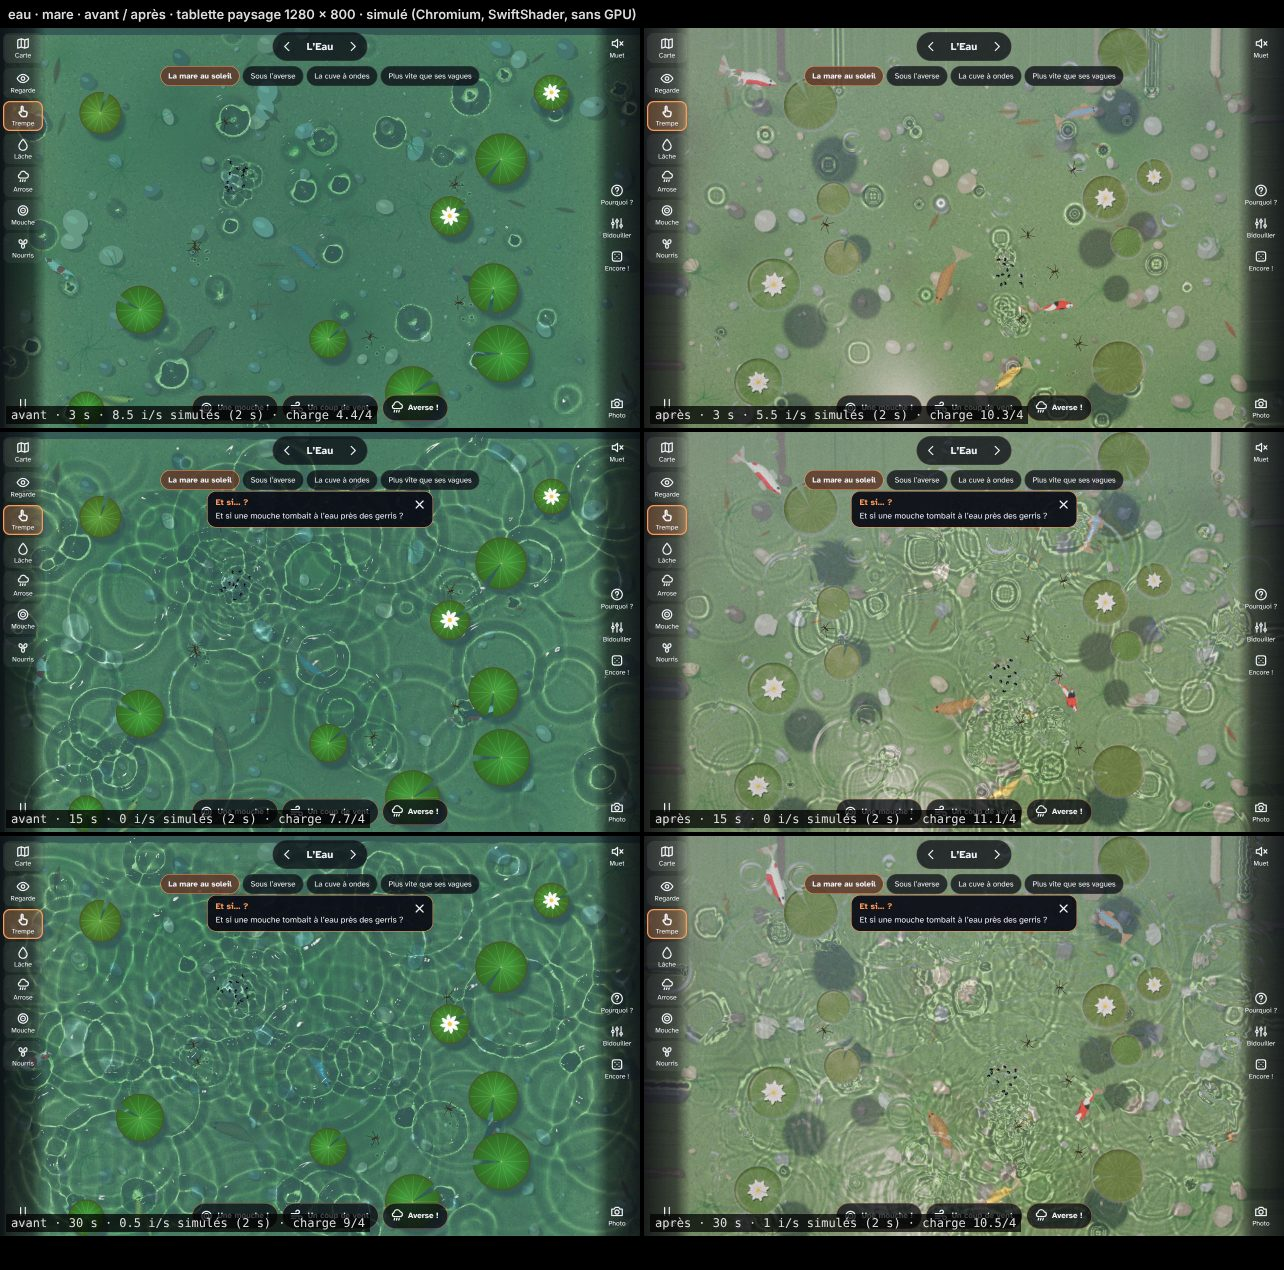
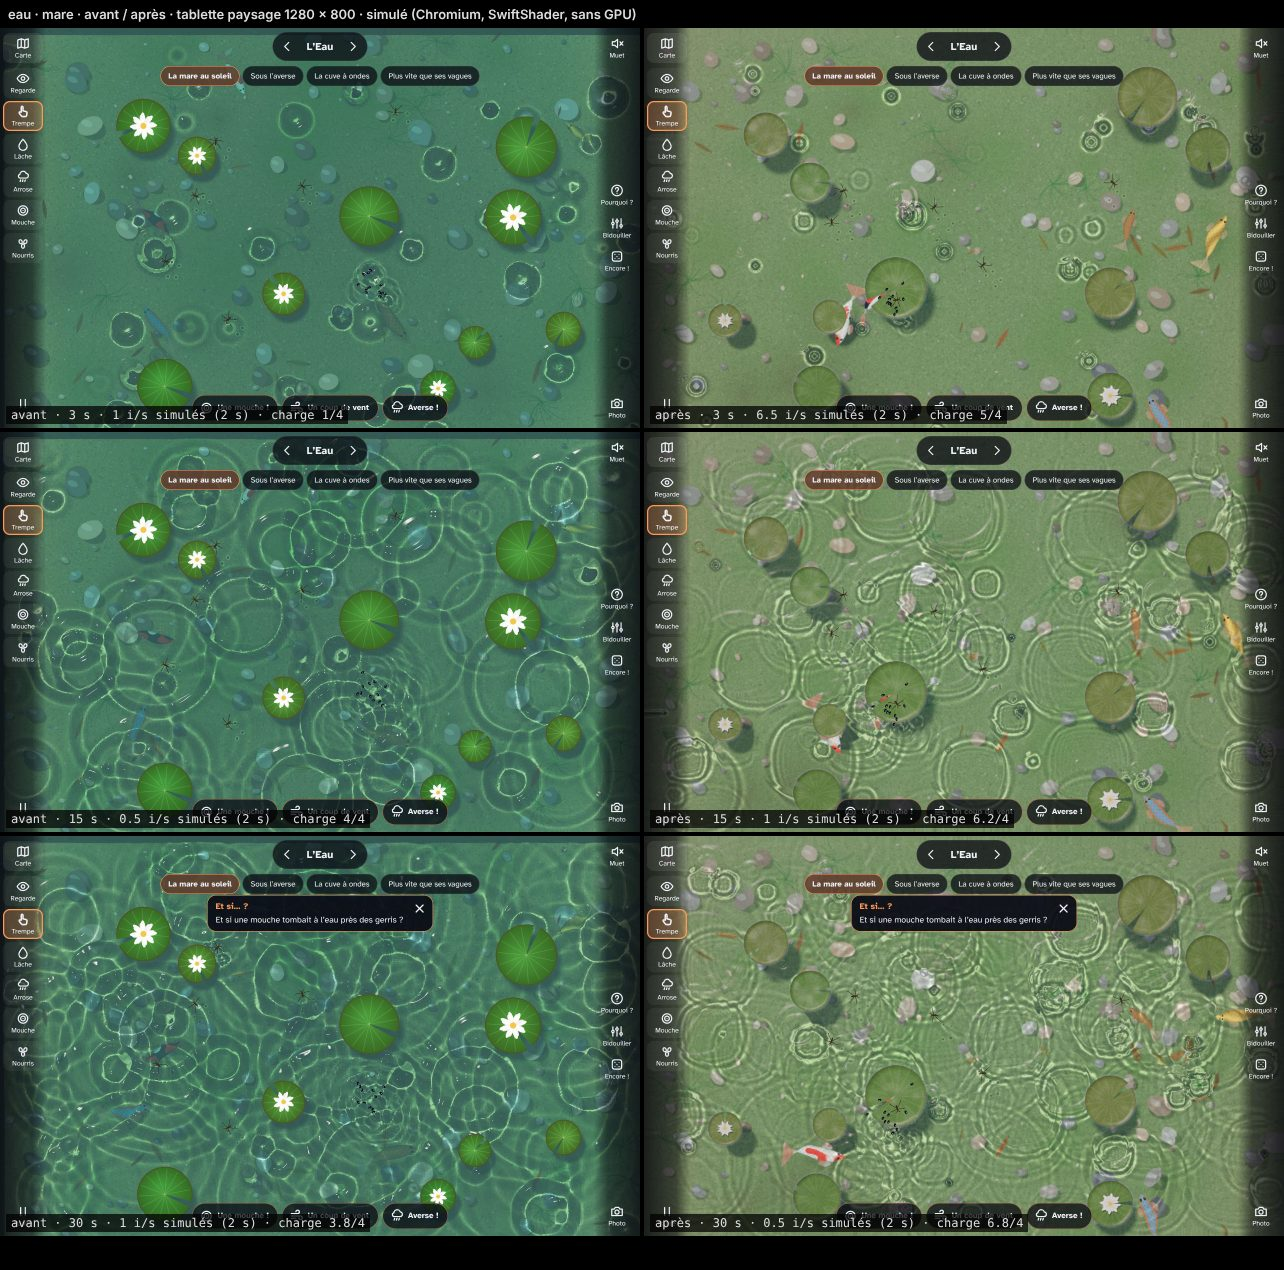
Rendu B · L'Eau : œil à la verticale, sillage en eau peu profonde nommé (relecture de Kurt)
La mare est une carte vue de dessus : l'œil est désormais à la verticale, très haut (au plus 14° d'écart dans les coins),
et non plus « debout au bord ». L'eau est transparente partout (2 % de reflet) ; le ciel ne se reflète que sur le flanc
incliné des rides, où la vue devient rasante (Fresnel exact). La cuve est de l'eau peu profonde : toutes les vagues y vont
à la même vitesse, et le V de la source qui avance est un cône de Mach dont l'angle se resserre avec la vitesse. Le texte
« À propos » le dit (sillage de Kelvin de 39° en eau profonde, à comparer). La note de l'expérience le dit aussi, et la
scène affiche à l'écran « Plus vite que ses vagues (eau peu profonde) ». Le libellé de la scène vient de la fiche jeunesse,
qui la désigne par « scenes/cuve a ondes » et l'option « doppler » : il est gardé tel quel. La simulation, les réglages et
leurs chemins sont inchangés. Planches au banc à jour (3, 15, 30 s) : la mare et la scène de la source qui avance.

Claude-Session: https://claude.ai/code/session_01MS9d5LtNxKhjVi4V5CV4hG

Changed region(s): [[0.5296, 0.0, 0.9969, 0.9827], [0.0312, 0.0307, 0.4984, 0.9827], [0.3115, 0.6756, 0.3427, 0.7063]]

diff --git a/app/js/machines/s-eau.js b/app/js/machines/s-eau.js
@@ -4,8 +4,8 @@
    absorption de l'eau. Vie : gerris qui chassent aux ondes, gyrins en radeau, koïs sous la surface,
    nénuphars, mouches tombées. Expériences de la cuve à ondes : interférences, diffraction, réfraction, Doppler.
    Rendu (rendu B, FKR) : la machine écrit de la LUMIÈRE (HDR linéaire) que la cabine commune développe (halo, AgX, grain).
-   La mare est vue par un œil debout au bord (en bas de l'écran) : transparente à ses pieds, elle devient miroir du ciel
-   au loin (Fresnel exact, n = 1,333). Le fond est éclairé par les caustiques tirées de la surface simulée, l'eau mange le
+   La mare est vue de dessus, l'œil à la verticale : transparente, elle ne renvoie le ciel que sur le flanc incliné des
+   rides, où la vue devient rasante (Fresnel exact, n = 1,333). Le fond est éclairé par les caustiques tirées de la surface simulée, l'eau mange le
    rouge selon l'épaisseur traversée (eauTransmission, Pope et Fry 1997) ; c'est le fond qui donne la teinte.
    Repli automatique sur l'ancienne Eau en 2D si WebGL2 manque. */
 (function boot() {
@@ -357,7 +357,7 @@ void main(){
     if (uBarre.w > .5) E *= mix(.12, 1., smoothstep(uBarre.z * .5, uBarre.z * 1.3, abs(p.x - uBarre.x)));
     col = pap * (uLampe * E * 1.6 * uSoleil + vec3(.006, .007, .009));
   } else {
-    // l'œil : debout au bord de la mare, en bas de l'écran (sans décor : vu d'en haut)
+    // l'œil : à la verticale de la mare, très haut (vue de dessus) ; le reflet du ciel naît sur le flanc des rides
     vec3 V = uMode < .5 ? normalize(uOeil - vec3(p, 0.)) : vec3(0., 0., 1.);
     float cv = max(dot(n, V), .02);
     float F = fresnelDielectrique(cv, 1.333);         // 2 % vu d'en haut, un miroir en vue rasante
@@ -583,15 +583,16 @@ void main(){
       { color: COUL.css(VERT.map((v) => v * 2.6)), name: 'Nymphaea alba', role: 'nénuphar blanc', desc: 'Ses feuilles flottent grâce à des canaux pleins d’air et respirent par le dessus, cireux et hydrofuge. Elles amortissent les rides qui passent dessous.' },
       { color: '#8a8070', name: 'Musca domestica', role: 'mouche tombée à l’eau', desc: 'Prisonnière de la tension superficielle, elle se débat et fait vibrer la surface : un signal que les gerris et les koïs savent lire.' },
       { color: COUL.css(SUNCOL), name: 'Caustiques', role: 'lumière réfractée', desc: 'Chaque crête concentre la lumière du soleil comme une loupe, chaque creux l’étale. Au fond, cela dessine un filet lumineux qui danse. La lumière qui descend puis remonte perd un peu de rouge : l’eau peu profonde est presque incolore, c’est le fond qui donne la teinte.' },
-      { color: COUL.css(HORIZON.map((v) => v * 0.6)), name: 'Reflet du ciel', role: 'Fresnel', desc: 'Vue d’en haut, l’eau ne renvoie que 2 % de la lumière : on voit le fond. Vue de biais, au loin, elle en renvoie de plus en plus et devient un miroir où passent le ciel et ses nuages.' },
+      { color: COUL.css(HORIZON.map((v) => v * 0.6)), name: 'Reflet du ciel', role: 'Fresnel', desc: 'Vue d’en haut, l’eau ne renvoie que 2 % de la lumière : on voit le fond. Vue de biais, elle en renvoie de plus en plus et devient un miroir : sur le flanc incliné des rides passent le ciel et ses nuages.' },
       { color: '#c8d8ff', name: 'Gouttes de pluie', role: 'bulle de Minnaert', desc: 'Le « plic » d’une goutte ne vient pas du choc, mais d’une minuscule bulle d’air piégée qui vibre, à quelques milliers de hertz. Chaque goutte projette une couronne de gouttelettes et laisse parfois de petites bulles qui flottent.' },
       { color: COUL.css(window.FKR.palette.carte('magma')(0.7)), name: 'Amplitude moyenne', role: 'couche de fausse couleur', desc: 'Couleurs : amplitude moyenne des oscillations, échelle magma (sombre : nœud, l’eau reste calme ; clair : ventre). Une grandeur invisible à l’œil, montrée seulement si on l’active.' },
     ],
     about: [
       'À la surface d’une mare, deux forces ramènent l’eau à plat : la pesanteur pour les vagues, la tension superficielle pour les petites rides. Les ondes les plus lentes avancent à 23 cm/s, pour une longueur d’onde de 1,7 cm : en dessous, ce sont des ondes capillaires, au-dessus des ondes de gravité. Ici, la simulation résout l’équation d’onde ; la profondeur règle la vitesse, comme dans une cuve à ondes.',
-      'Les caustiques sont calculées d’après la forme de la surface : la lumière du soleil la traverse, se plie selon l’indice de l’eau (1,33) et frappe le fond. Là où la surface est bombée, les rayons se resserrent et le fond s’illumine ; vue de loin, l’eau devient un miroir du ciel (Fresnel). Les pattes des gerris creusent de petites fossettes qui agissent comme des lentilles divergentes : au fond, chaque patte projette une ombre ronde cerclée de lumière.',
+      'Les caustiques sont calculées d’après la forme de la surface : la lumière du soleil la traverse, se plie selon l’indice de l’eau (1,33) et frappe le fond. Là où la surface est bombée, les rayons se resserrent et le fond s’illumine ; sur le flanc incliné des rides, vu de biais, l’eau devient un miroir du ciel (Fresnel). Les pattes des gerris creusent de petites fossettes qui agissent comme des lentilles divergentes : au fond, chaque patte projette une ombre ronde cerclée de lumière.',
       'Comment les jeunes gerris avancent-ils, alors que leurs pattes vont moins vite que les ondes les plus lentes ? Ce « paradoxe de Denny » (1993) a été résolu en 2003 par David Hu, Brian Chan et John Bush : en ramant, le gerris lance surtout de petits tourbillons sous la surface. Ses pattes portent jusqu’à quinze fois son poids grâce à des milliers de poils striés.',
       'Au début des années 1800, Thomas Young fait passer la lumière par deux fentes et observe des franges : la lumière se comporte comme une onde. La cuve à ondes rend l’expérience visible. Deux sources font naître des lignes calmes (nœuds) et des lignes agitées (ventres), des hyperboles ; une fente étroite fait s’épanouir l’onde, une plaque immergée la ralentit et la dévie, comme un prisme.',
+      'En eau profonde, le sillage d’un bateau fait toujours environ 39° (sillage de Kelvin) ; ici, l’eau est peu profonde, toutes les vagues vont à la même vitesse, et l’angle du V se resserre quand on va plus vite.',
       'Quand on tape près d’une carpe, elle fuit en quelques millisecondes en se pliant en C : c’est le « départ en C », commandé par deux neurones géants, les cellules de Mauthner. Et le « plic » de la pluie vient d’une bulle d’air qui vibre à une fréquence d’environ 3,3 divisé par son rayon (Minnaert, 1933).',
     ],
     tools: [
@@ -696,7 +697,8 @@ void main(){
     }
     mkCab();
     // décalage du fond vu à travers une eau plane, par unité de profondeur (l'œil est debout au bord, en bas de l'écran)
-    const oeil = () => { const v = view(); return [v.cx, H * 1.2, H * 0.5]; };
+    // une carte vue de dessus : l'œil est à la verticale, très haut (au plus 14° d'écart dans les coins)
+    const oeil = () => { const v = view(); return [v.cx, H * 0.5, H * 3]; };
     function decalage(x, y) {
       const E = oeil(); let vx = E[0] - x, vy = E[1] - y; const vz = E[2], l = Math.hypot(vx, vy, vz);
       vx /= l; vy /= l;
@@ -1133,7 +1135,19 @@ void main(){
       if (!mode) drawSpray(A);
       cab.fin(rdt);
       if (!bare) drawSurface();
+      if (tank && cfg.exp === 'doppler') legendeDoppler();
       drawLabel(false);
+    }
+    // à l'écran, sur la scène « Plus vite que ses vagues » : la cuve est de l'eau peu profonde (V de Mach, pas de Kelvin)
+    function legendeDoppler() {
+      const v = view(), y = ((env.view && env.view.y0) || 0) + 22;
+      ctx.save();
+      ctx.shadowColor = 'rgba(0,0,0,.85)'; ctx.shadowBlur = 6; ctx.textAlign = 'left';
+      ctx.fillStyle = 'rgba(250,248,240,.95)'; ctx.font = '500 14px "Space Grotesk", sans-serif';
+      ctx.fillText('Plus vite que ses vagues (eau peu profonde)', v.x0 + 16, y);
+      ctx.fillStyle = 'rgba(250,248,240,.8)'; ctx.font = '500 9.5px "JetBrains Mono", monospace';
+      ctx.fillText('TOUTES LES VAGUES VONT À LA MÊME VITESSE : LE V SE RESSERRE QUAND LA SOURCE ACCÉLÈRE', v.x0 + 16, y + 15);
+      ctx.restore();
     }
     // les éclaboussures en lumière : chaque gouttelette en l'air renvoie le soleil (un point vif, étiré pendant la pose) ;
     // une bulle flottante renvoie le ciel sur son pourtour (Fresnel rasant) et le soleil en un point
@@ -1374,7 +1388,7 @@ void main(){
             double: 'L’expérience de Thomas Young (début des années 1800), avec de l’eau : derrière deux fentes, des franges alternent.',
             refraction: 'Une plaque immergée rend l’eau moins profonde : l’onde y ralentit et change de direction, comme la lumière dans du verre.',
             lentille: 'Une zone peu profonde en forme de lentille ralentit le centre de l’onde : le front se courbe et converge vers un foyer.',
-            doppler: 'La source se déplace : les crêtes se resserrent devant, s’espacent derrière. Plus vite que les ondes, elle trace un sillage en V, comme un bateau.',
+            doppler: 'Eau peu profonde : toutes les vagues vont à la même vitesse. La source se déplace : les crêtes se resserrent devant, s’espacent derrière. Plus vite que les ondes, elle trace un sillage en V, qui se resserre quand elle accélère.',
           }[cfg.exp] + ' Longueur d’onde ≈ ' + Math.round(lam) + ' px.' });
           L.push({ type: 'slider', label: 'Fréquence', min: 0, max: 1, step: 0.01, value: cfg.freq, fmt: (x) => (Math.round((0.12 + x * 0.32) * 120 / TAU * 10) / 10).toString().replace('.', ',') + ' Hz', set: (x) => { cfg.freq = x; } });
           if (cfg.exp !== 'refraction' && cfg.exp !== 'lentille' && cfg.exp !== 'doppler') L.push({ type: 'slider', label: cfg.exp === 'deux' ? 'Écart des sources' : 'Largeur des fentes', min: 0, max: 1, step: 0.01, value: cfg.gap, fmt: (x) => Math.round(x * 100) + ' %', set: (x) => { cfg.gap = x; setExp(cfg.exp); } });
